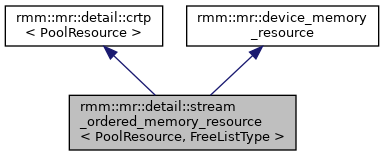
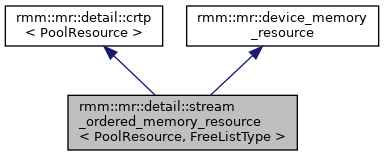
[gpuCI] Update docs for rmm v0.20

diff --git a/api/librmm/0.20/inherits.html b/api/librmm/0.20/inherits.html
@@ -162,7 +162,7 @@ $(function() {
 <tr><td><img alt="" border="0" src="inherit_graph_20.png" usemap="#armm_1_1mr_1_1detail_1_1free__list_3_01block__base_01_4"/>
 <map id="armm_1_1mr_1_1detail_1_1free__list_3_01block__base_01_4" name="rmm_1_1mr_1_1detail_1_1free__list_3_01block__base_01_4">
 <area alt="" coords="5,5,164,47" href="classrmm_1_1mr_1_1detail_1_1free__list.html" shape="rect" title=" "/>
-<area alt="" coords="212,5,376,47" href="structrmm_1_1mr_1_1detail_1_1fixed__size__free__list.html" shape="rect" title=" "/>
+<area alt="" coords="212,5,375,47" href="structrmm_1_1mr_1_1detail_1_1fixed__size__free__list.html" shape="rect" title=" "/>
 </map>
 </td></tr>
 <tr><td><img alt="" border="0" src="inherit_graph_21.png" usemap="#armm_1_1mr_1_1detail_1_1free__list_3_01BlockType_00_01ListType_01_4"/>
@@ -172,12 +172,12 @@ $(function() {
 </td></tr>
 <tr><td><img alt="" border="0" src="inherit_graph_22.png" usemap="#armm_1_1mr_1_1detail_1_1stream__ordered__memory__resource_3_01PoolResource_00_01FreeListType_01_4_1_1split__block"/>
 <map id="armm_1_1mr_1_1detail_1_1stream__ordered__memory__resource_3_01PoolResource_00_01FreeListType_01_4_1_1split__block" name="rmm_1_1mr_1_1detail_1_1stream__ordered__memory__resource_3_01PoolResource_00_01FreeListType_01_4_1_1split__block">
-<area alt="" coords="5,5,217,76" href="structrmm_1_1mr_1_1detail_1_1stream__ordered__memory__resource_1_1split__block.html" shape="rect" title="Get the maximum size of a single allocation supported by this suballocator memory resource."/>
+<area alt="" coords="5,5,220,76" href="structrmm_1_1mr_1_1detail_1_1stream__ordered__memory__resource_1_1split__block.html" shape="rect" title="Get the maximum size of a single allocation supported by this suballocator memory resource."/>
 </map>
 </td></tr>
 <tr><td><img alt="" border="0" src="inherit_graph_23.png" usemap="#armm_1_1mr_1_1detail_1_1stream__ordered__memory__resource_3_01PoolResource_00_01FreeListType_01_4_1_1stream__event__pair"/>
 <map id="armm_1_1mr_1_1detail_1_1stream__ordered__memory__resource_3_01PoolResource_00_01FreeListType_01_4_1_1stream__event__pair" name="rmm_1_1mr_1_1detail_1_1stream__ordered__memory__resource_3_01PoolResource_00_01FreeListType_01_4_1_1stream__event__pair">
-<area alt="" coords="5,5,217,76" href="structrmm_1_1mr_1_1detail_1_1stream__ordered__memory__resource_1_1stream__event__pair.html" shape="rect" title=" "/>
+<area alt="" coords="5,5,220,76" href="structrmm_1_1mr_1_1detail_1_1stream__ordered__memory__resource_1_1stream__event__pair.html" shape="rect" title=" "/>
 </map>
 </td></tr>
 <tr><td><img alt="" border="0" src="inherit_graph_24.png" usemap="#armm_1_1mr_1_1device__memory__resource"/>
@@ -189,7 +189,7 @@ $(function() {
 <area alt="" coords="285,115,511,200" href="classrmm_1_1mr_1_1detail_1_1stream__ordered__memory__resource.html" shape="rect" title=" "/>
 <area alt="" coords="595,137,774,178" href="classrmm_1_1mr_1_1pool__memory__resource.html" shape="rect" title="A coalescing best-fit suballocator which uses a pool of memory allocated from an upstream memory_reso..."/>
 <area alt="" coords="40,231,197,273" href="structrmm_1_1mr_1_1detail_1_1crtp.html" shape="rect" title=" "/>
-<area alt="" coords="285,224,511,280" href="classrmm_1_1mr_1_1detail_1_1stream__ordered__memory__resource.html" shape="rect" title="Base class for a stream-ordered memory resource."/>
+<area alt="" coords="283,224,513,280" href="classrmm_1_1mr_1_1detail_1_1stream__ordered__memory__resource.html" shape="rect" title="Base class for a stream-ordered memory resource."/>
 <area alt="" coords="23,501,215,542" href="classrmm_1_1mr_1_1device__memory__resource.html" shape="rect" title="Base class for all libcudf device memory allocation."/>
 <area alt="" coords="305,893,491,934" href="classrmm_1_1mr_1_1arena__memory__resource.html" shape="rect" title="A suballocator that emphasizes fragmentation avoidance and scalable concurrency support."/>
 <area alt="" coords="299,305,497,346" href="classrmm_1_1mr_1_1binning__memory__resource.html" shape="rect" title="Allocates memory from upstream resources associated with bin sizes."/>

diff --git a/api/librmm/0.20/classrmm_1_1mr_1_1detail_1_1stream__ordered__memory__resource.html b/api/librmm/0.20/classrmm_1_1mr_1_1detail_1_1stream__ordered__memory__resource.html
@@ -70,7 +70,7 @@ Inheritance diagram for rmm::mr::detail::stream_ordered_memory_resource&lt; Pool
 <div class="dyncontent">
 <div class="center"><img alt="Inheritance graph" border="0" src="classrmm_1_1mr_1_1detail_1_1stream__ordered__memory__resource__inherit__graph.png" usemap="#armm_1_1mr_1_1detail_1_1stream__ordered__memory__resource_3_01PoolResource_00_01FreeListType_01_4_inherit__map"/></div>
 <map id="armm_1_1mr_1_1detail_1_1stream__ordered__memory__resource_3_01PoolResource_00_01FreeListType_01_4_inherit__map" name="rmm_1_1mr_1_1detail_1_1stream__ordered__memory__resource_3_01PoolResource_00_01FreeListType_01_4_inherit__map">
-<area alt="" coords="69,95,296,151" shape="rect" title="Base class for a stream-ordered memory resource."/>
+<area alt="" coords="68,95,297,151" shape="rect" title="Base class for a stream-ordered memory resource."/>
 <area alt="" coords="5,5,163,47" href="structrmm_1_1mr_1_1detail_1_1crtp.html" shape="rect" title=" "/>
 <area alt="" coords="187,5,379,47" href="classrmm_1_1mr_1_1device__memory__resource.html" shape="rect" title="Base class for all libcudf device memory allocation."/>
 </map>
@@ -80,7 +80,7 @@ Collaboration diagram for rmm::mr::detail::stream_ordered_memory_resource&lt; Po
 <div class="dyncontent">
 <div class="center"><img alt="Collaboration graph" border="0" src="classrmm_1_1mr_1_1detail_1_1stream__ordered__memory__resource__coll__graph.png" usemap="#armm_1_1mr_1_1detail_1_1stream__ordered__memory__resource_3_01PoolResource_00_01FreeListType_01_4_coll__map"/></div>
 <map id="armm_1_1mr_1_1detail_1_1stream__ordered__memory__resource_3_01PoolResource_00_01FreeListType_01_4_coll__map" name="rmm_1_1mr_1_1detail_1_1stream__ordered__memory__resource_3_01PoolResource_00_01FreeListType_01_4_coll__map">
-<area alt="" coords="69,95,296,151" shape="rect" title="Base class for a stream-ordered memory resource."/>
+<area alt="" coords="68,95,297,151" shape="rect" title="Base class for a stream-ordered memory resource."/>
 <area alt="" coords="5,5,163,47" href="structrmm_1_1mr_1_1detail_1_1crtp.html" shape="rect" title=" "/>
 <area alt="" coords="187,5,379,47" href="classrmm_1_1mr_1_1device__memory__resource.html" shape="rect" title="Base class for all libcudf device memory allocation."/>
 </map>

diff --git a/api/librmm/0.20/structrmm_1_1mr_1_1detail_1_1fixed__size__free__list.html b/api/librmm/0.20/structrmm_1_1mr_1_1detail_1_1fixed__size__free__list.html
@@ -63,8 +63,8 @@ Inheritance diagram for rmm::mr::detail::fixed_size_free_list:</div>
 <div class="dyncontent">
 <div class="center"><img alt="Inheritance graph" border="0" src="structrmm_1_1mr_1_1detail_1_1fixed__size__free__list__inherit__graph.png" usemap="#armm_1_1mr_1_1detail_1_1fixed__size__free__list_inherit__map"/></div>
 <map id="armm_1_1mr_1_1detail_1_1fixed__size__free__list_inherit__map" name="rmm_1_1mr_1_1detail_1_1fixed__size__free__list_inherit__map">
-<area alt="" coords="5,95,169,136" shape="rect" title=" "/>
-<area alt="" coords="8,5,167,47" href="classrmm_1_1mr_1_1detail_1_1free__list.html" shape="rect" title=" "/>
+<area alt="" coords="5,95,168,136" shape="rect" title=" "/>
+<area alt="" coords="7,5,166,47" href="classrmm_1_1mr_1_1detail_1_1free__list.html" shape="rect" title=" "/>
 </map>
 <center><span class="legend">[<a href="graph_legend.html">legend</a>]</span></center></div>
 <div class="dynheader">
@@ -72,8 +72,8 @@ Collaboration diagram for rmm::mr::detail::fixed_size_free_list:</div>
 <div class="dyncontent">
 <div class="center"><img alt="Collaboration graph" border="0" src="structrmm_1_1mr_1_1detail_1_1fixed__size__free__list__coll__graph.png" usemap="#armm_1_1mr_1_1detail_1_1fixed__size__free__list_coll__map"/></div>
 <map id="armm_1_1mr_1_1detail_1_1fixed__size__free__list_coll__map" name="rmm_1_1mr_1_1detail_1_1fixed__size__free__list_coll__map">
-<area alt="" coords="5,95,169,136" shape="rect" title=" "/>
-<area alt="" coords="8,5,167,47" href="classrmm_1_1mr_1_1detail_1_1free__list.html" shape="rect" title=" "/>
+<area alt="" coords="5,95,168,136" shape="rect" title=" "/>
+<area alt="" coords="7,5,166,47" href="classrmm_1_1mr_1_1detail_1_1free__list.html" shape="rect" title=" "/>
 </map>
 <center><span class="legend">[<a href="graph_legend.html">legend</a>]</span></center></div>
 <table class="memberdecls">

diff --git a/api/librmm/0.20/classrmm_1_1mr_1_1device__memory__resource.html b/api/librmm/0.20/classrmm_1_1mr_1_1device__memory__resource.html
@@ -71,7 +71,7 @@ Inheritance diagram for rmm::mr::device_memory_resource:</div>
 <area alt="" coords="265,71,462,112" href="classrmm_1_1mr_1_1binning__memory__resource.html" shape="rect" title="Allocates memory from upstream resources associated with bin sizes."/>
 <area alt="" coords="282,136,445,177" href="classrmm_1_1mr_1_1cuda__async__memory__resource.html" shape="rect" title="device_memory_resource derived class that uses cudaMallocAsync/cudaFreeAsync for allocation/deallocat..."/>
 <area alt="" coords="273,201,453,243" href="classrmm_1_1mr_1_1cuda__memory__resource.html" shape="rect" title="device_memory_resource derived class that uses cudaMalloc/Free for allocation/deallocation."/>
-<area alt="" coords="250,267,477,323" href="classrmm_1_1mr_1_1detail_1_1stream__ordered__memory__resource.html" shape="rect" title="Base class for a stream-ordered memory resource."/>
+<area alt="" coords="249,267,478,323" href="classrmm_1_1mr_1_1detail_1_1stream__ordered__memory__resource.html" shape="rect" title="Base class for a stream-ordered memory resource."/>
 <area alt="" coords="263,348,463,389" href="classrmm_1_1mr_1_1limiting__resource__adaptor.html" shape="rect" title="Resource that uses Upstream to allocate memory and limits the total allocations possible."/>
 <area alt="" coords="264,413,463,455" href="classrmm_1_1mr_1_1logging__resource__adaptor.html" shape="rect" title="Resource that uses Upstream to allocate memory and logs information about the requested allocation/de..."/>
 <area alt="" coords="258,479,469,520" href="classrmm_1_1mr_1_1managed__memory__resource.html" shape="rect" title="device_memory_resource derived class that uses cudaMallocManaged/Free for allocation/deallocation."/>

diff --git a/api/librmm/0.20/exec__policy_8hpp.html b/api/librmm/0.20/exec__policy_8hpp.html
@@ -65,7 +65,7 @@ Include dependency graph for exec_policy.hpp:</div>
 <div class="dyncontent">
 <div class="center"><img alt="" border="0" src="exec__policy_8hpp__incl.png" usemap="#aexec__policy_8hpp"/></div>
 <map id="aexec__policy_8hpp" name="exec__policy_8hpp">
-<area alt="" coords="299,5,425,32" shape="rect" title=" "/>
+<area alt="" coords="300,5,424,32" shape="rect" title=" "/>
 <area alt="" coords="363,437,569,464" href="cuda__stream__view_8hpp_source.html" shape="rect" title=" "/>
 <area alt="" coords="277,80,447,121" href="thrust__allocator__adaptor_8hpp_source.html" shape="rect" title=" "/>
 <area alt="" coords="471,80,618,121" shape="rect" title=" "/>

diff --git a/api/librmm/0.20/per__device__resource_8hpp.html b/api/librmm/0.20/per__device__resource_8hpp.html
@@ -107,7 +107,7 @@ This graph shows which files directly or indirectly include this file:</div>
 <area alt="" coords="532,80,740,107" href="thrust__allocator__adaptor_8hpp_source.html" shape="rect" title=" "/>
 <area alt="" coords="458,155,598,181" href="device__vector_8hpp_source.html" shape="rect" title=" "/>
 <area alt="" coords="495,229,668,256" href="thrust__rmm__allocator_8h_source.html" shape="rect" title=" "/>
-<area alt="" coords="673,155,799,181" href="exec__policy_8hpp.html" shape="rect" title=" "/>
+<area alt="" coords="674,155,798,181" href="exec__policy_8hpp.html" shape="rect" title=" "/>
 </map>
 </div>
 </div>
